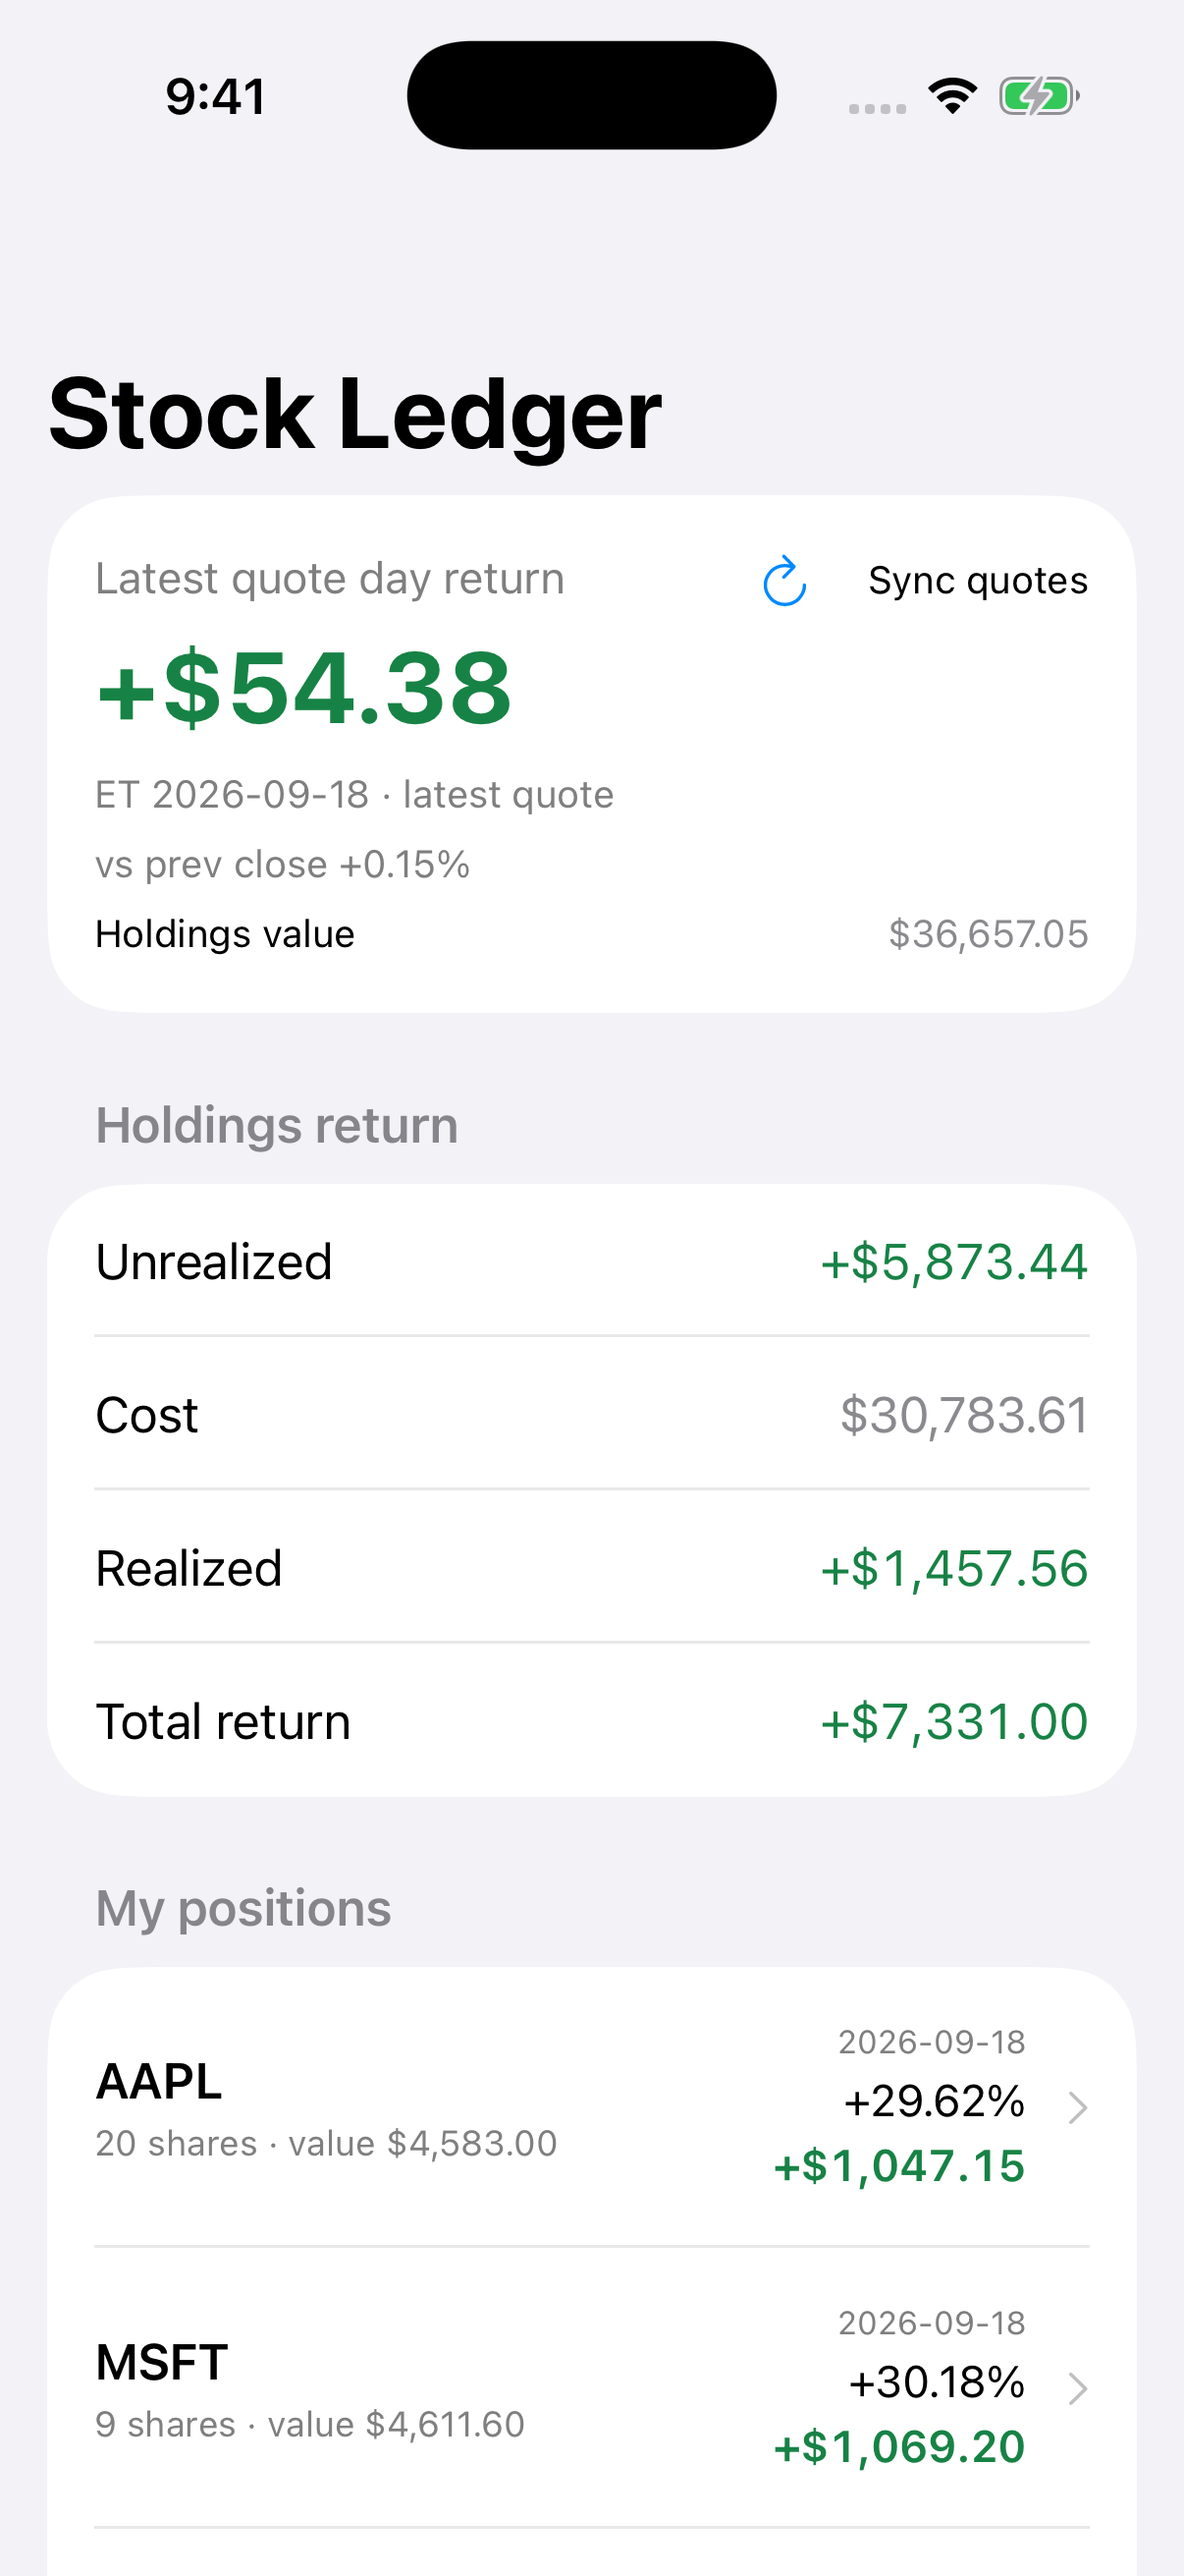
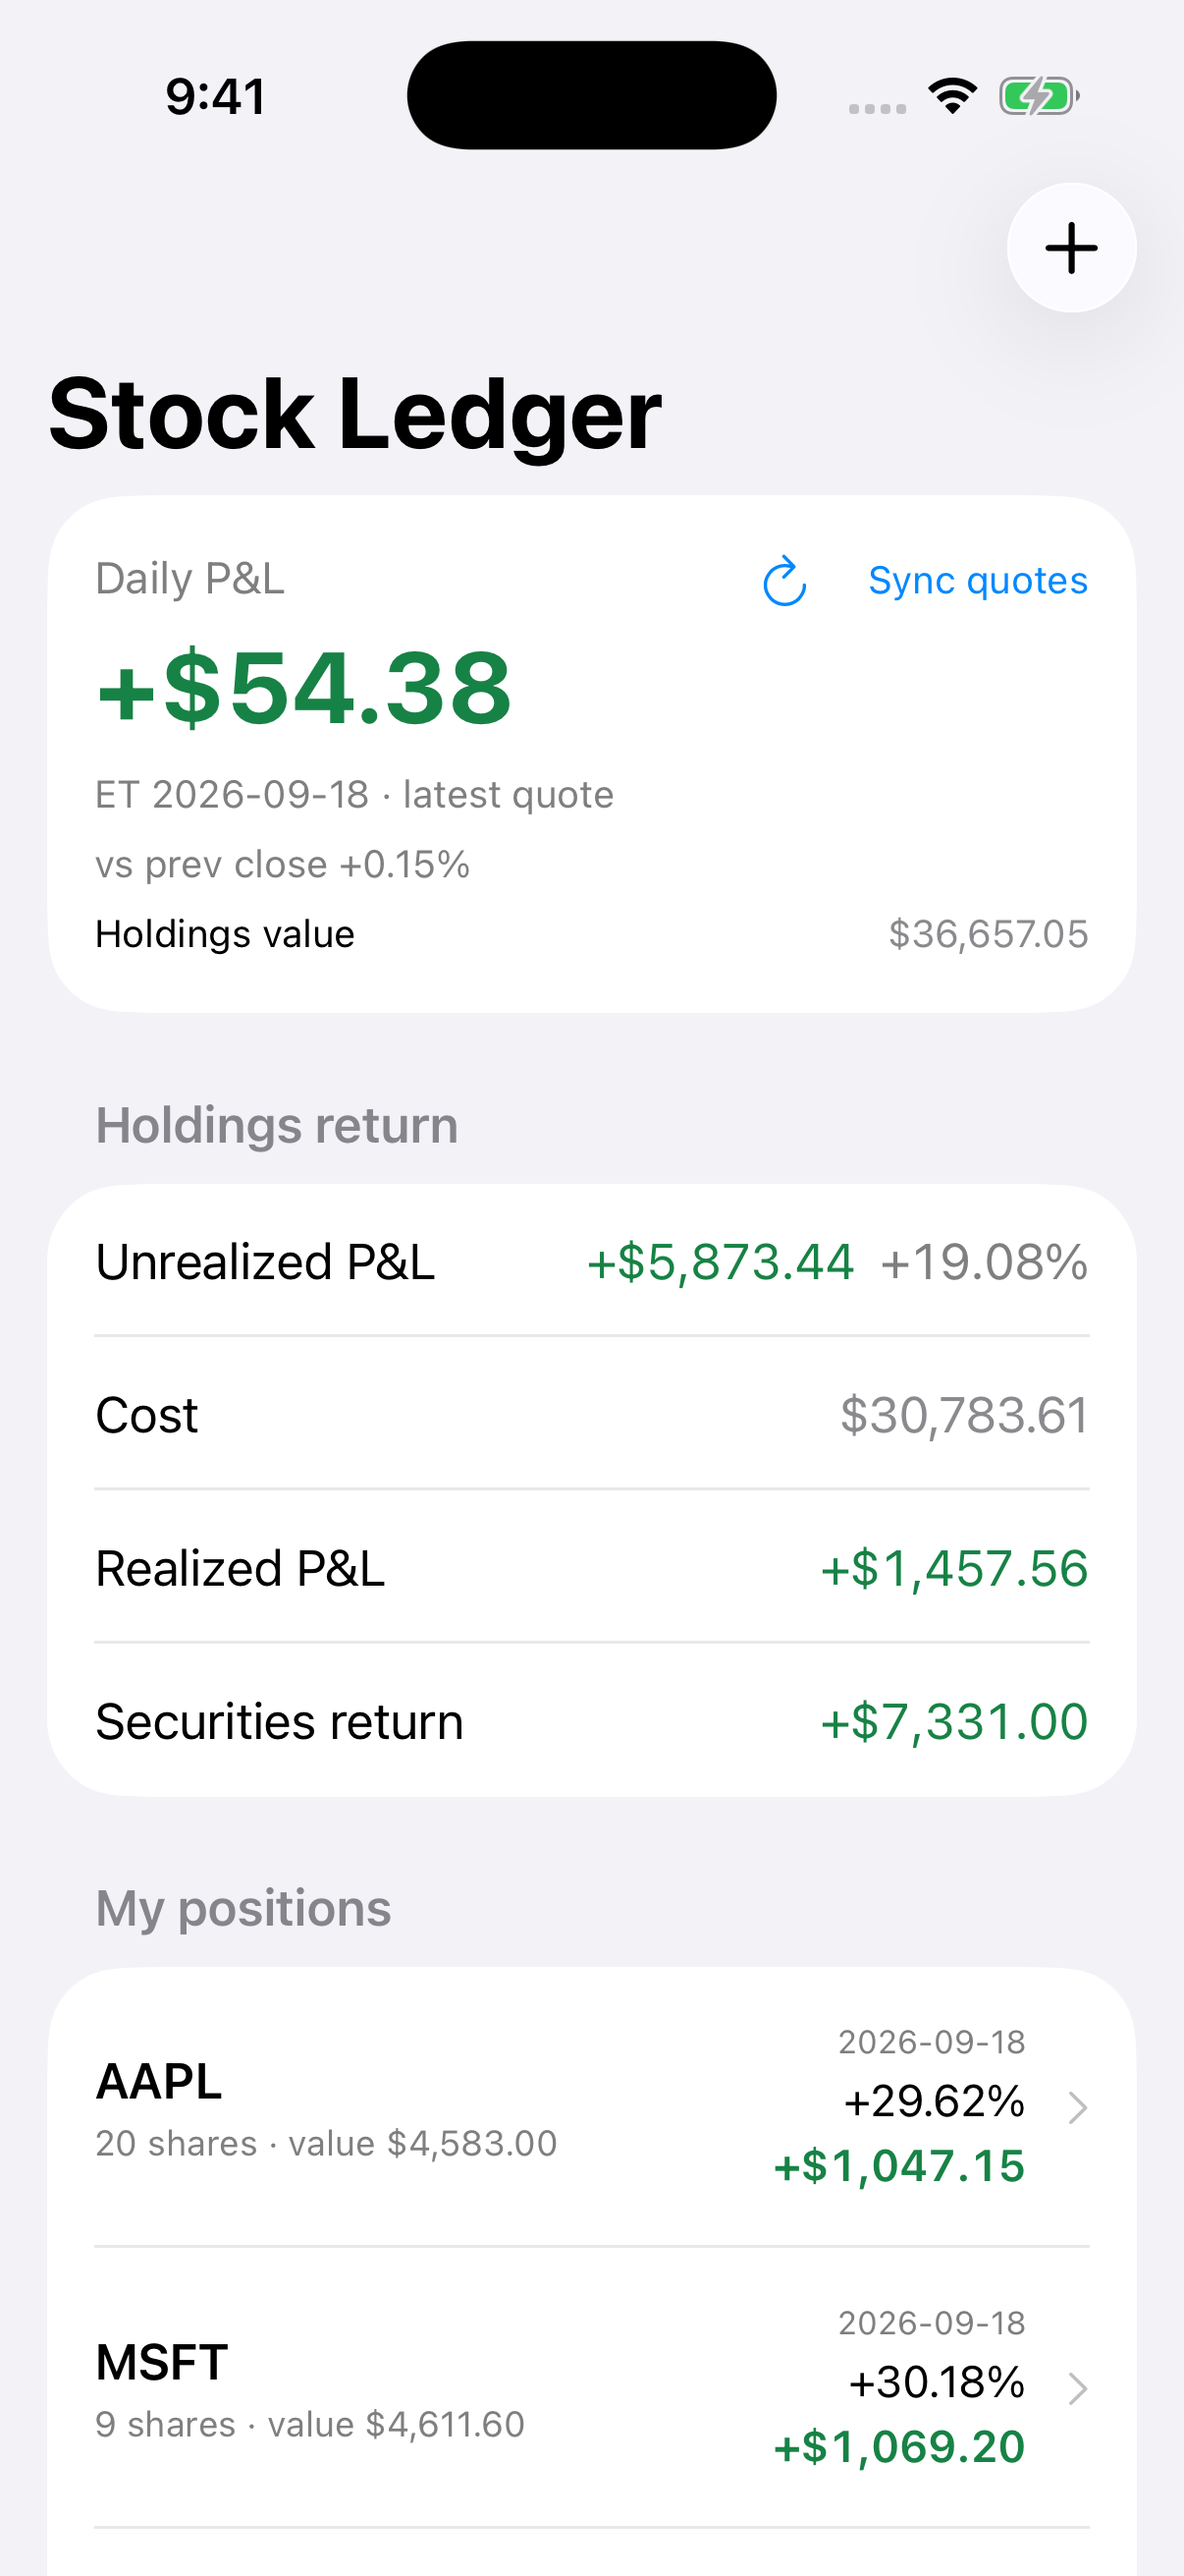
V1.0 收尾（文档与截图）：README 换成本轮 CI 截图，导航路径同步
- docs/screenshots/ 的 6 张图全部替换为本轮 CI 产出的最新 UI 截图，
  删除 P1 之前的旧图，不再保留历史版本
- README.md / README.zh-Hans.md：示例模式与备份入口改为实际导航路径
  （设置 → 支持 → 示例、设置 → 数据 → 备份与恢复 → 导出账本备份），
  按钮名改用界面上的真实文案（Try demo ledger / Exit demo mode、
  试用示例账本 / 退出示例模式），并去掉「退出示例并清空账本」这种与实际
  行为不符的写法——示例只存在于内存，不会写进也不会清空真实账本
- 源码注释不再用「2.0 / 1.x 沿用」描述代际：CsvImport、ImportView、Engine
  （含「old 2.0 backup」那条）、L10n、RootView、Models、Store 按当前行为与
  1.0 基线重写；只改注释，UI 与二进制不变，所以本轮 CI 截图仍等于最终界面
- ENGLISH_UI_FINAL_AUDIT.md：回填 eb7b054 与本轮 CI 的原生断言总数，
  §3 补本地全量实测（门禁 + E2E 26 passed），§7 记录本轮口径变化

diff --git a/ios/App/App/StockLedger/Engine.swift b/ios/App/App/StockLedger/Engine.swift
@@ -1,7 +1,7 @@
 import Foundation
 import CoreGraphics
 
-// 2.0 计算引擎：口径与 1.x 一致（移动平均成本、期初边界、买卖联动现金）。
+// 计算引擎：移动平均成本、期初边界、买卖联动现金。
 
 struct Position: Identifiable {
     var symbol: String
@@ -424,7 +424,7 @@ enum Engine {
                 if let day = quote.previousCloseDate { dates[quote.symbol] = day }
             }
         }
-        // Recover persisted daily baselines when opening an old 2.0 backup.
+        // 没有 previousClose 时用最近的历史收盘价补上当日基准（行情来源不提供，或从备份恢复后）。
         let history = Dictionary(grouping: ledger.history.closes) { $0.symbol }
         for symbol in symbols where before[symbol] == nil {
             if let close = history[symbol]?.filter({ $0.date < date }).max(by: { $0.date < $1.date }),

diff --git a/ios/App/App/StockLedger/Models.swift b/ios/App/App/StockLedger/Models.swift
@@ -1,7 +1,7 @@
 import Foundation
 
-// 原生版账本：沿用原生 2.0 测试版的格式 2，与旧 Web 版分开存储。
-// 计算口径与旧 Web 版保持一致：移动平均成本、已实现/浮动收益、现金期初边界与买卖联动。
+// 原生版账本：格式 2 是 1.0 起的数据基线（`Ledger.currentFormat`），与旧 Web 版分开存储。
+// 计算口径：移动平均成本、已实现/浮动收益、现金期初边界与买卖联动。
 
 enum TradeSide: String, Codable, CaseIterable, Identifiable {
     case buy, sell

diff --git a/ios/App/App/StockLedger/Store.swift b/ios/App/App/StockLedger/Store.swift
@@ -1,8 +1,8 @@
 import Foundation
 import Combine
 
-// 原生版 1.0 沿用原生 2.0 测试版的 Documents/ledger-v2.json。
-// 不读取旧 Web 版的 Capacitor Preferences；产品重新编号不更改存储位置。
+// 原生版账本固定存在 Documents/ledger-v2.json（1.0 起的存储基线）。
+// 不读取旧 Web 版的 Capacitor Preferences。
 
 enum LedgerStore {
     /// 仅测试使用：把账本读写重定向到临时目录，避免测试碰到真实的 Documents。

diff --git a/ios/App/App/StockLedger/ImportView.swift b/ios/App/App/StockLedger/ImportView.swift
@@ -1,7 +1,7 @@
 import SwiftUI
 import UniformTypeIdentifiers
 
-// 2.0 券商 CSV 导入界面：选择文件与类型（成交明细 / 资金流水）→ 字段映射 → 预览确认 → 写入账本。
+// 券商 CSV 导入界面：选择文件与类型（成交明细 / 资金流水）→ 字段映射 → 预览确认 → 写入账本。
 // 预览阶段展示错误行与疑似重复，提交时再校验一次；未确认前不改动账本。
 
 struct ImportView: View {

diff --git a/ios/App/App/StockLedger/RootView.swift b/ios/App/App/StockLedger/RootView.swift
@@ -1,6 +1,6 @@
 import SwiftUI
 
-// 2.0 根界面：四个主要页面（持仓 / 交易 / 收益 / 设置）。
+// 根界面：四个主要页面（持仓 / 交易 / 收益 / 设置）。
 // 「记一笔」入口在持仓 / 交易页导航栏右上角的 "+"（V1.0 最后一轮 UI 从悬浮按钮改过来）。
 // 全部使用系统导航、列表、表单和日期选择器，跟随系统文字大小、深浅色与辅助功能。
 

diff --git a/ios/App/App/StockLedger/CsvImport.swift b/ios/App/App/StockLedger/CsvImport.swift
@@ -1,6 +1,6 @@
 import Foundation
 
-// 2.0 券商 CSV 导入：先预览、再写入。解析规则与 1.x 保持一致——
+// 券商 CSV 导入：先预览、再写入。解析规则保持稳定——
 // 严格数字与日期校验、币种校验、成交编号去重、同日相对顺序由用户确认。
 // 任何无法确定的记录都标记为错误或疑似重复，绝不静默改写账本。
 

diff --git a/ios/App/App/StockLedger/L10n.swift b/ios/App/App/StockLedger/L10n.swift
@@ -1,6 +1,6 @@
 import Foundation
 
-// 2.0/1.0 应用内语言切换：中文 / English 一键切换。
+// 应用内语言切换：中文 / English 一键切换。
 // 以中文文案为键，切到 English 时查表替换；未收录的文案回退为中文，不会空白或崩溃。
 // 根视图用 `.id(language)` 强制整体重绘，语言切换立即生效。
 

diff --git a/README.md b/README.md
@@ -47,7 +47,7 @@ Six screens, rendered on an iPhone simulator from the built-in demo ledger (Engl
 
 ## Demo
 
-No sign-up and no data required. Open **Settings → Load demo ledger** to explore a sample portfolio (trades, dividends, fees and an opening balance), then clear it with **Exit demo and clear ledger** when you are ready to enter your own numbers. Demo Mode is isolated: it never writes into your real ledger.
+No sign-up and no data required. Open **Settings → Support → Demo** and tap **Try demo ledger** to explore a sample portfolio (trades, dividends, fees and an opening balance); tap **Exit demo mode** when you are ready to enter your own numbers. Demo Mode is isolated: it lives in memory only and never writes into your real ledger.
 
 ### Demo video (planned)
 
@@ -174,7 +174,7 @@ The project checklist asked CI to run a linter. This repository has **no ESLint,
 2. Install a free signing tool such as [Sideloadly](https://sideloadly.io/) or [AltStore](https://altstore.io/) on your computer.
 3. Plug in your iPhone, open the tool, drag the IPA in, and sign with your own Apple ID.
 4. Keep the bundle identifier `com.personal.stockledger` and use an **update/overlay install** — do **not** uninstall the old version first, or you will lose your ledger.
-5. Back up regularly from **Settings → Export ledger backup**, and keep the file outside the app.
+5. Back up regularly from **Settings → Data → Backup & Restore → Export ledger backup**, and keep the file outside the app.
 
 The IPA is unsigned because it is built without a paid Apple Developer account; the SHA-256 published next to each release lets you verify the file you downloaded.
 
@@ -203,7 +203,7 @@ Releases follow semantic versioning (`v1.26.0`, …). Each one publishes an unsi
 ### Where your data lives
 
 - Your ledger is **one JSON file in the app's own `Documents` folder** (`ledger-v2.json`). There is no server, no account and no sync.
-- Backups are files **you** export (**Settings → Export ledger backup**) and keep wherever you like.
+- Backups are files **you** export (**Settings → Data → Backup & Restore → Export ledger backup**) and keep wherever you like.
 - Deleting the app deletes the ledger. Export a backup before reinstalling.
 
 ### What leaves the device

diff --git a/README.zh-Hans.md b/README.zh-Hans.md
@@ -47,7 +47,7 @@
 
 ## 示例模式
 
-无需注册、无需数据。打开 **设置 → 载入示例账本** 就能浏览一套示例持仓（买卖、分红、费用、期初余额），准备录自己的数据时用 **退出示例并清空账本**。示例模式是隔离的：绝不会写进你的真实账本。
+无需注册、无需数据。打开 **设置 → 支持 → 示例** 后点 **试用示例账本** 就能浏览一套示例持仓（买卖、分红、费用、期初余额），准备录自己的数据时点 **退出示例模式**。示例模式是隔离的：只存在于内存，绝不会写进你的真实账本。
 
 ### 演示视频（规划中）
 
@@ -174,7 +174,7 @@ pnpm e2e      # playwright test
 2. 在电脑上装一个免费签名工具，例如 [Sideloadly](https://sideloadly.io/) 或 [AltStore](https://altstore.io/)。
 3. 连上 iPhone，打开工具，把 IPA 拖进去，用你自己的 Apple ID 签名。
 4. 保持应用标识 `com.personal.stockledger`，选**覆盖安装** —— 不要先卸载旧版，否则会丢账本。
-5. 定期在 **设置 → 导出账本备份** 备份，文件存到应用之外。
+5. 定期在 **设置 → 数据 → 备份与恢复 → 导出账本备份** 备份，文件存到应用之外。
 
 IPA 未签名，因为没有付费的 Apple 开发者账号；每个 Release 旁边公布 SHA-256，可核对下载文件。
 
@@ -203,7 +203,7 @@ open ios/App/App.xcodeproj   # 然后在模拟器或自己的真机上运行
 ### 数据存在哪
 
 - 账本是 **App 自己 `Documents` 目录下的一个 JSON 文件**（`ledger-v2.json`）。没有服务器、没有账号、不连云。
-- 备份是**你自己**导出的文件（**设置 → 导出账本备份**），存哪由你决定。
+- 备份是**你自己**导出的文件（**设置 → 数据 → 备份与恢复 → 导出账本备份**），存哪由你决定。
 - 删除 App 就等于删除账本。重装前先导出备份。
 
 ### 什么会离开设备
